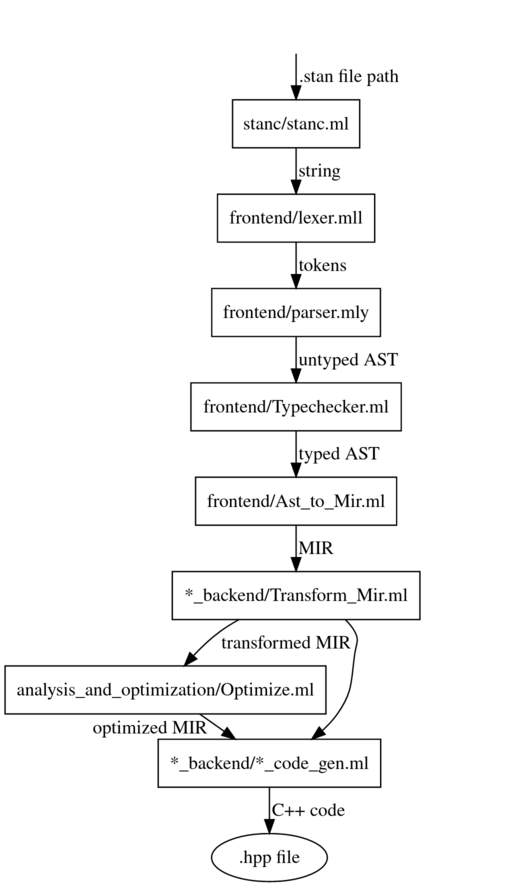
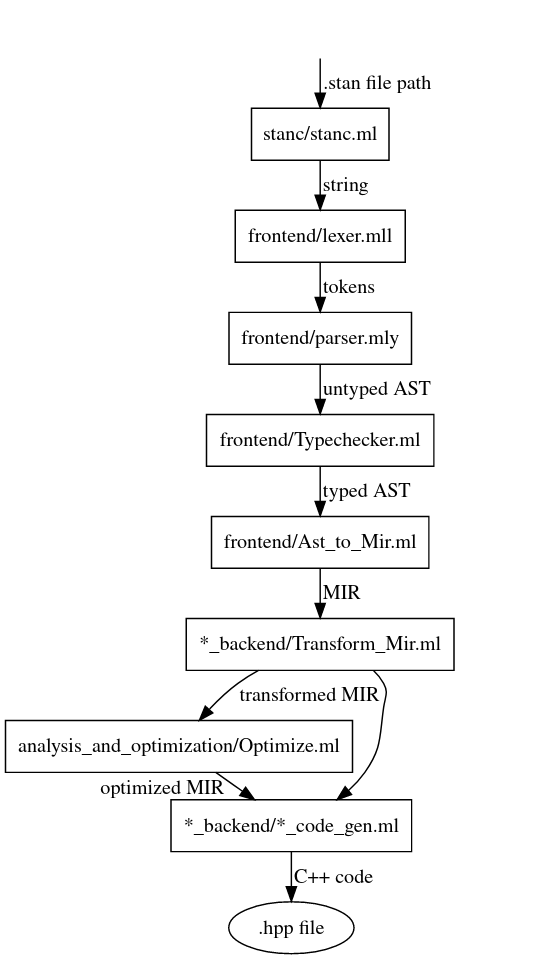
Update readme

diff --git a/README.md b/README.md
@@ -20,8 +20,9 @@ digraph G {
     rankdir=TB;
     ranksep=.25;
     bgcolor=white;
+    size=5;
     node [shape="box"];
-    
+
     origin[style=invis];
     stanc[label="stanc/stanc.ml"];
     lexer[label="frontend/lexer.mll"];
@@ -32,9 +33,9 @@ digraph G {
     optimize[label="analysis_and_optimization/Optimize.ml"];
     codegen[label="*_backend/*_code_gen.ml"];
     output[shape="oval" label=".hpp file"]
-    
 
-    origin -> stanc[label=" .stan file path"];  
+
+    origin -> stanc[label=" .stan file path"];
     stanc -> lexer[label=" string"];
     lexer -> parser[label=" tokens"];
     parser -> type[label=" untyped AST"];
@@ -44,8 +45,8 @@ digraph G {
     transform -> codegen[label="                                  "];
     optimize -> codegen[headlabel="optimized MIR      "];
     codegen -> output[label=" C++ code"];
-    
-} 
+
+}
 --->
 ![stanc3 information flow](docs/img/information-flow.png)
 
